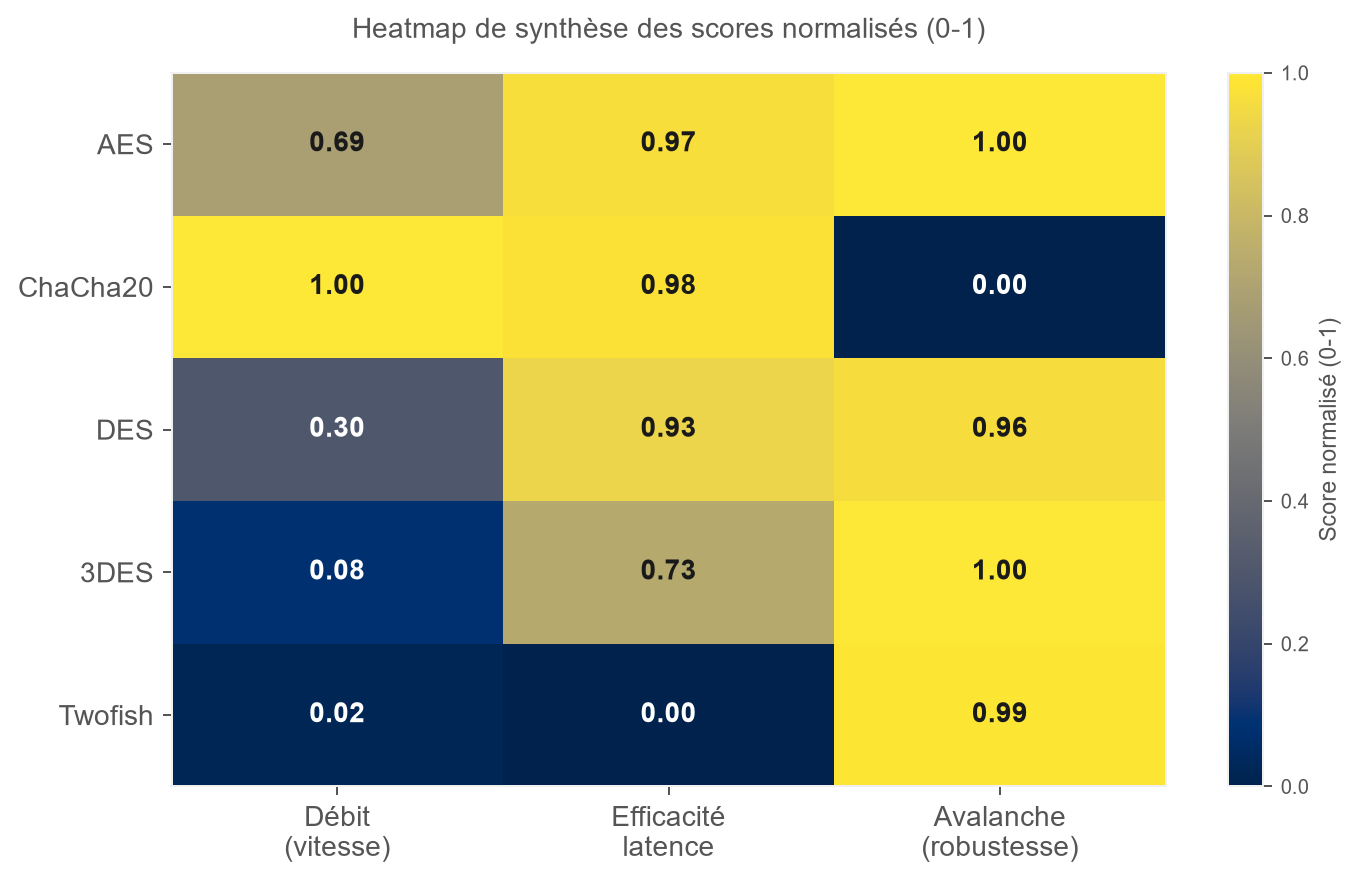
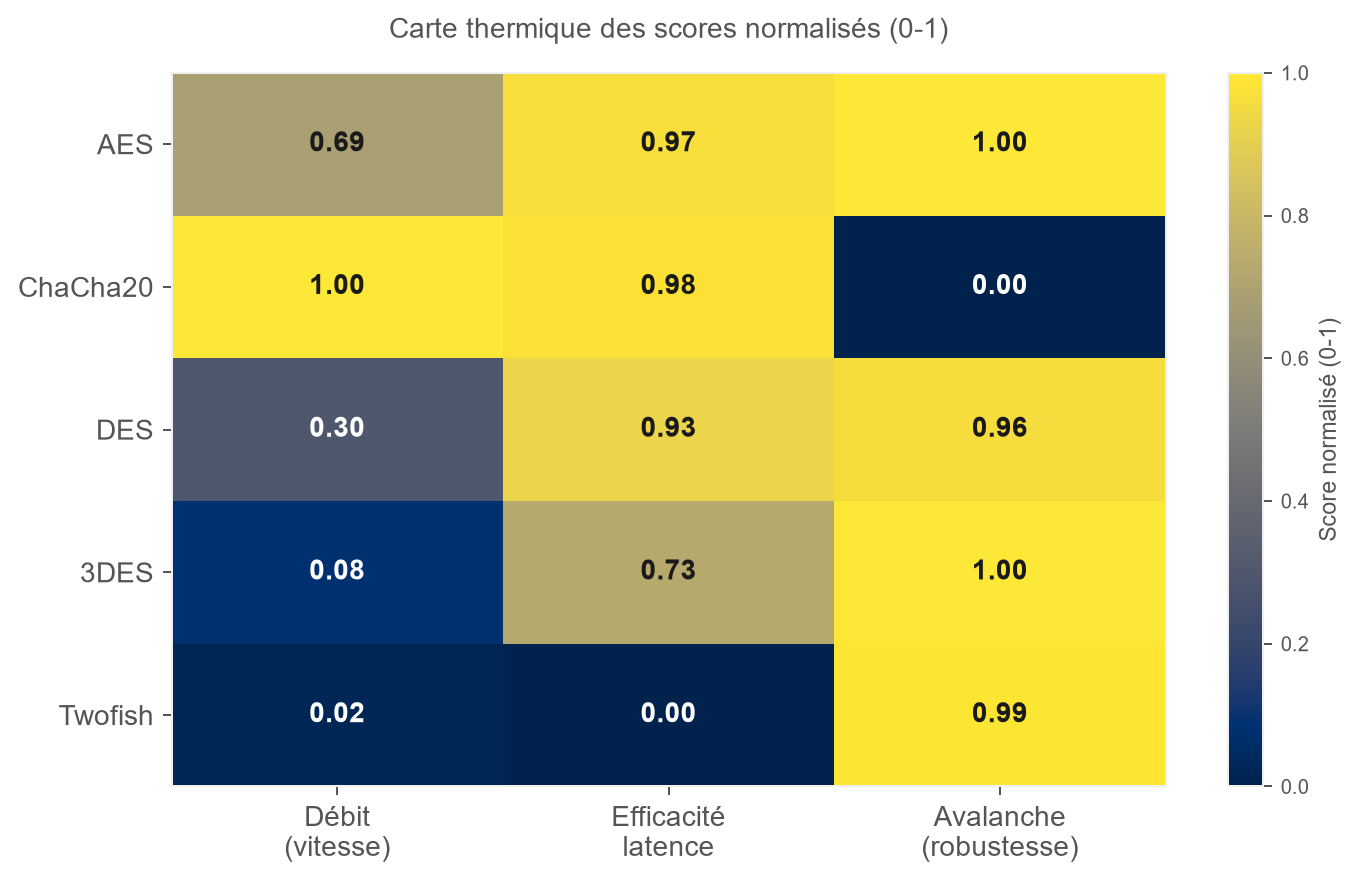
commit

Changed region(s): [[0.2474, 0.0, 0.7113, 0.0612]]

diff --git a/crypto-experiments/scripts/chart_pipeline/build_performance.py b/crypto-experiments/scripts/chart_pipeline/build_performance.py
@@ -612,7 +612,7 @@ def fig9_synthesis_heatmap():
     cbar.set_label("Score normalisé (0-1)", fontsize=9)
     cbar.ax.yaxis.label.set_color(TEXT_COLOR)
     ax.set_title(
-        "Heatmap de synthèse des scores normalisés (0-1)",
+        "Carte thermique des scores normalisés (0-1)",
         fontsize=11, color=TEXT_COLOR,
     )
     plt.tight_layout()
